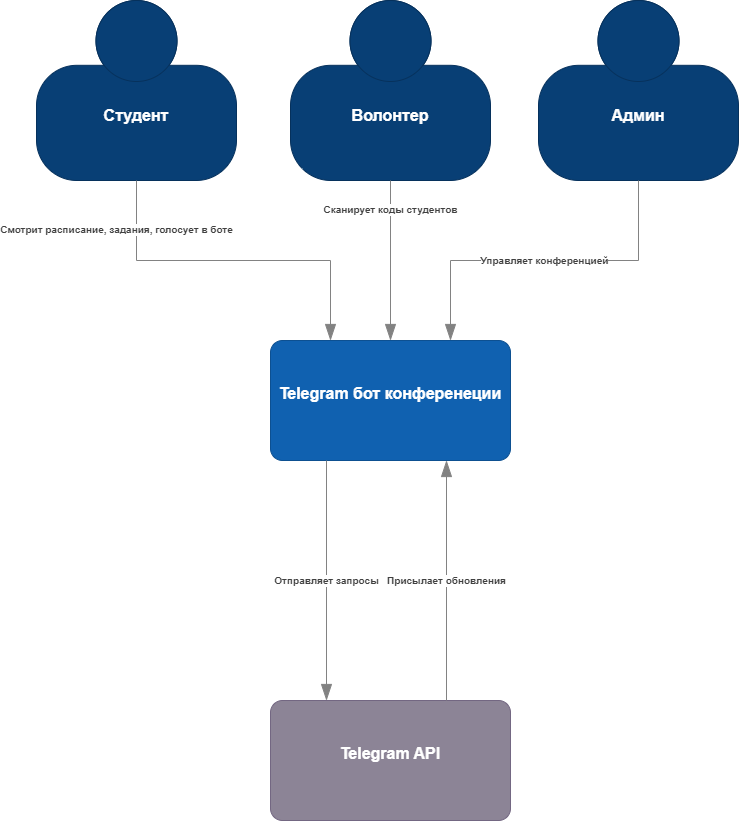
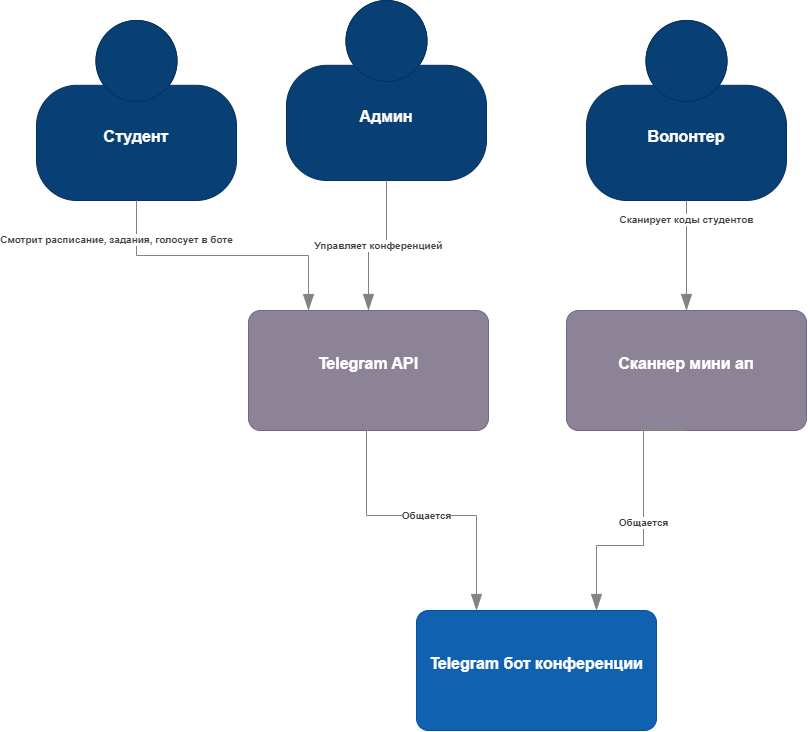
fix: lab2

diff --git a/Lab Work №2/README.md b/Lab Work №2/README.md
@@ -16,7 +16,8 @@
 Диаграмма контейнеров показывает внутреннюю структуру системы и распределение ответственности между её основными подсистемами. Система включает два независимых backend-контейнера: пользовательский Telegram-бот, обрабатывающий запросы студентов, и административный бот, предназначенный для работы волонтёров и администраторов. Дополнительные контейнеры обеспечивают генерацию QR-кодов, обработку заданий и голосований, а общая база данных PostgreSQL хранит всю необходимую информацию о пользователях и мероприятиях. Взаимодействие с пользователями осуществляется исключительно через Telegram API.
 
 ## Диаграмма компонентов 
-![c3.2](/images/c3.png)
+![c3.1](/images/c3(1).png)
+![c3.2](/images/c3(2).png)
 
 Диаграмма компонентов детализирует внутреннее устройство двух основных контейнеров системы: пользовательского и административно-волонтёрского Telegram-ботов. В пользовательском контейнере выделены компоненты, отвечающие за маршрутизацию команд студентов, регистрацию участников, отображение расписания, работу с заданиями и голосованиями, а также получение персонального QR-кода. 
 
@@ -24,3 +25,4 @@
 
 Каждый контейнер взаимодействует с Telegram API через собственный компонент-коннектор и обращается к соответствующим сервисам системы для выполнения бизнес-логики. Такое структурирование позволяет чётко разделить обязанности модулей и упростить поддержку и расширение функциональности.
 
+Внешние связи упрощены до минимальных для каждого рассматриваемого контейнера

diff --git a/README.md b/README.md
@@ -28,7 +28,7 @@
 
 ## Список Лабораторных работ
 - Lab Work №1 (решение загружено)
-- Lab Work №2 (нет решения)
+- Lab Work №2 (решение загружено)
 - Lab Work №3 (нет решения)
 - Lab Work №4 (нет решения)
 - Lab Work №5 (нет решения)
